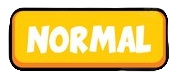
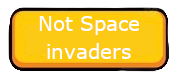
NotSpaceInvader nivel
Creacion de un nivel adicional

Changed region(s): [[0.1412, 0.2025, 0.8757, 0.7595]]

diff --git a/src/componentes/NotSpaceInvader.js b/src/componentes/NotSpaceInvader.js
@@ -1,0 +1,167 @@
+import Phaser from "phaser";
+
+class Escena extends Phaser.Scene {
+
+
+  constructor() {
+    super('Alien');      // Constructor que almacenara un key o identificador de la escena, se encarga de enviar los parametros
+  }
+
+  /*/ Se precargan las imagenes y los sonidos del juego desde su directorio /*/
+
+  preload() {
+    this.load.image('fondo', './imagenes/fondo.jpg');
+    this.load.image('barra', './imagenes/barra.png');
+    this.load.image('pelota', './imagenes/pelota.png');
+    this.load.image('AlienAzul', './imagenes/AlienAzul.png');
+    this.load.image('AlienRojo', './imagenes/AlienRojo.png');
+    this.load.image('AlienVerde', './imagenes/AlienVerde.png');
+    this.load.audio('musicaescena', './musica/escena.mp3');
+    this.load.audio('gameover', './musica/gameover.mp3');
+    this.load.audio('gameover2', './musica/gameover2.mp3');
+    this.load.audio('bloquedestruccion', './musica/bloquedestruccion.mp3');
+    this.load.audio('youwin', './musica/youwin.mp3');
+    this.load.audio('youwin2', './musica/youwin2.mp3');
+    this.load.audio('barrasonido', './musica/barrasonido.mp3');
+  }
+
+  /*/  Se crean las imagenes y sonidos /*/
+
+  create() {
+
+    /*/ Creacion de musica y sonido /*/
+
+    this.musicaescena = this.sound.add('musicaescena');
+    this.gameover = this.sound.add('gameover');
+    this.gameover2 = this.sound.add('gameover2');
+    this.youwin = this.sound.add('youwin');
+    this.youwin2 = this.sound.add('youwin2');
+    this.bloquedestruccion = this.sound.add('bloquedestruccion');
+    this.barrasonido = this.sound.add('barrasonido');
+
+    /*/ creacion de imagen de fondo /*/
+
+    this.add.image(665, 374, 'fondo');
+
+    /*/Creacion de la pelota /*/
+
+    this.pelota = this.physics.add.image(650, 660, 'pelota');                       // se referencia a pelota y se le agrega fisicas para que pueda moverse en la pantalla.
+    this.pelota.setCollideWorldBounds(true);                                        // hace posible que la pelota choque con los bordes de la pantalla.
+    this.pelota.setBounce(1);                                                      // permite que la pelota rebote.
+    this.pelota.setData('union', true);
+
+    /*/ Creacion de la barra del jugador /*/
+
+    this.barra = this.physics.add.image(650, 700, 'barra').setImmovable();      // se añade fisicas a la barra, por lo tanto caera por la fuerzade de gravedad.
+    this.barra.setCollideWorldBounds(true);                                     // La barra del jugador choca con los bordes de la pantalla.
+    this.barra.body.allowGravity = false;                                       // se anula la gravedad al objeto y permanece estatico.
+    this.cursors = this.input.keyboard.createCursorKeys();                    // se agrega un input o entrada de registro de teclas para poder mover al objeto con el teclado.
+    this.physics.add.collider(this.pelota, this.barra);
+
+    /*/ Creacion de los bloques /*/
+
+    this.bloques = this.physics.add.staticGroup({
+      key: ['AlienAzul', 'AlienRojo', 'AlienVerde'],   // Se crea un array que almacenara y ademas ubicara todos los bloques en la pantalla.
+      frameQuantity: 18, //Cantidad maxima de bloques de cada color
+      gridAlign: {
+        width: 9, //Cantidad maxima de bloques por fila.
+        height: 6, //Cantindad de filas de bloques (Siempre tratar que sea multiplo a la cantidad maxima de bloques para evitar filas vacias)
+        cellWidth: 130, //Distancia de ancho entre cada bloque
+        cellHeight: 95, //Distancia de alto entre cada bloque
+        x: 180, //Posicion de los bloques en X
+        y: 80, //Posicion de los bloques en Y
+      }
+    });
+
+    this.physics.add.collider(this.pelota, this.bloques, this.bloqueColision, null, this);   // Agrega colision entre la pelota y los bloques.
+
+
+
+    // Implemeta un texto (Marcador) "Score" en pantalla.
+
+    this.scoreText = this.add.text(1150, 25, 'SCORE: 0', {
+      fontSize: '25px',
+      fill: 'yellow',
+      fontFamily: 'Franklin Gothic Medium',
+
+    });
+
+  }
+
+  update() {
+    /*/ Movimiento del jugador /*/
+    if (this.cursors.left.isDown) {
+      this.barra.setVelocityX(-600);            // si se presiona la tecla flecha izquierda y si se mantiene apretada se produce un movimiento en el eje X hacia la izquierda.
+
+      if (this.pelota.getData('union')) {
+        this.pelota.setVelocityX(-600);
+      }
+    } else if (this.cursors.right.isDown) {      // si se presiona la tecla flecha derecha y se mantiene apretada se produce un movimiento en el eje X hacia la derecha.
+      this.barra.setVelocityX(600);
+      if (this.pelota.getData('union')) {
+        this.pelota.setVelocityX(600);
+      }
+    } else {
+      this.barra.setVelocityX(0);                     // se detiene la barra del jugador si no presiona una tecla.
+      if (this.pelota.getData('union')) {
+        this.pelota.setVelocityX(0);
+      }
+      if (this.cursors.up.isDown) {
+        if (this.pelota.getData('union')) {
+          this.pelota.setVelocity(-300, -600);              // velocidad de la pelota al despegarse de la barra del jugador  en los ejes X e Y
+          this.pelota.setData('union', false);              // Permite que la pelota se separe de la barra al presionar la tecla flecha arriba.
+          this.musicaescena.play()                                 // Reproduce cancion de la escena.          
+        }
+      }
+    }
+
+    /*/ Condicional que cambia a la escena  Game Over /*/
+
+    if (this.pelota.y > 700) {
+      console.log('fin');
+      this.mostrarGameOver();        // Cuando se cumple la condicion se llama al metodo en cuestion, y este ejecuta el cambio de escena.
+    }
+
+  }
+
+  /*/ Metodo que aplica la colision entre la pelota  los bloques y muestra la pantalla (escena) de Victoria /*/
+
+  bloqueColision(pelota, bloques) {
+    this.score++;
+    this.scoreText.setText('Score: ' + this.score);  // Cada vez que se detecta una colision suma un puntaje en el marcador Score.
+    this.bloquedestruccion.play();                   // Reproduce sonido de destruccion de los bloques
+    this.barrasonido.play()
+    bloques.disableBody(true, true);                // Permite que los bloques desaparezcan al ser colisionados por la pelota.
+    if (this.bloques.countActive() === 0) {          // Cuando la cantidad de bloques llegue a cero se llama al  metodo mostrarPantallaVictoria() y este ejecutara el cambio de escena.
+      this.mostrarPantallaVictoria();
+    }
+  }
+
+  /*/ Metodo cambio de escena GameOver /*/
+  mostrarGameOver() {
+    this.scene.start('JuegoAcabado');                 // Inicia la escena GameOver.
+    this.gameover.play()                             // Reproduce sonido.
+    this.gameover2.play()                           // Reproduce sonido.
+    this.musicaescena.stop();                      // Detiene la musica de la escena Game.
+  }
+
+  /*/ Metodo cambio de escena Victoria /*/
+  mostrarPantallaVictoria() {
+    this.scene.start('ganaste');                // Inicia la escena de Victoria.
+    this.youwin.play();
+    this.youwin2.play();                      // Reproduce la musica de victoria.
+    this.musicaescena.stop();                   // Detiene la musica de la escena Game.  
+  }
+
+  init() {
+    this.score = 0;                   // Inicializa el Marcador Score en 0.
+  }
+
+
+
+
+
+
+}
+
+export default Escena;             // Exporta la escena.

diff --git a/src/componentes/BottonNotSpace.js b/src/componentes/BottonNotSpace.js
@@ -1,0 +1,18 @@
+
+/*/  Componente boton que tiene por funcion pasar a la escena Modo de juego Normal  /*/
+export class lvlAlienButton {
+    constructor(scene) {
+        this.relatedScene = scene;    // Constructor por defecto para la escena.
+
+    }
+    preload() {
+        this.relatedScene.load.image('botondos', './imagenes/botondos.png');     // Precarga de la imagen del boton.
+    }
+
+    create() {
+        this.startButton = this.relatedScene.add.image(632, 400, 'botondos').setInteractive();    // Mediante la variable  "startButton"  se le asigna la imagen precargada al boton. 
+        this.startButton.on('pointerdown', () => {                                            // Funcion que activa el cambio de escena al clickear el boton.
+            this.relatedScene.scene.start('Alien');                                             // Permite que el boton redireccione a la escena del juego (Game).
+        });
+    }
+}

diff --git a/src/App.js b/src/App.js
@@ -1,6 +1,7 @@
 
 import Phaser from 'phaser';
 import Game from './componentes/Game.js';
+import Alien from './componentes/NotSpaceInvader.js';
 import { Menu } from './componentes/Menu.js';
 import { useEffect, useState } from 'react';
 import  { JuegoAcabado } from './componentes/GameOver.js'
@@ -17,7 +18,7 @@ function App() {
             type: Phaser.AUTO,
             width:1300,                            // Ancho de la pantalla
             height:750,                            // Altura de la pantalla
-            scene:[Menu, Game,JuegoAcabado,Ganaste],     // Se guardan las escenas del juego.
+            scene:[Menu, Game,JuegoAcabado,Ganaste, Alien],     // Se guardan las escenas del juego.
             physics: {
                 default: 'arcade',
                 arcade: {                               // Se habilitan las fisicas

diff --git a/src/componentes/Menu.js b/src/componentes/Menu.js
@@ -2,7 +2,7 @@
 /*/ Escena Menu /*/
 
 import { LvlunoButton } from "./BotoonLvlUno.js";   // Se importa el componente lvlunoButton.
-import { lvlDosButton } from './BotoonLvlDos.js'    // Se importa el componente LvlNormal
+import { lvlAlienButton } from './BottonNotSpace.js'    // Se importa el componente LvlNormal
 import Phaser from "phaser";
 export class Menu extends Phaser.Scene {
 
@@ -13,7 +13,7 @@ export class Menu extends Phaser.Scene {
       super('Menu');
 
       this.LvlunoButton = new LvlunoButton(this);           // Constructores para la escena y  los  botones.
-      this.LvlNormal = new lvlDosButton(this);
+      this.LvlNormal = new lvlAlienButton(this);
 
    }
 
